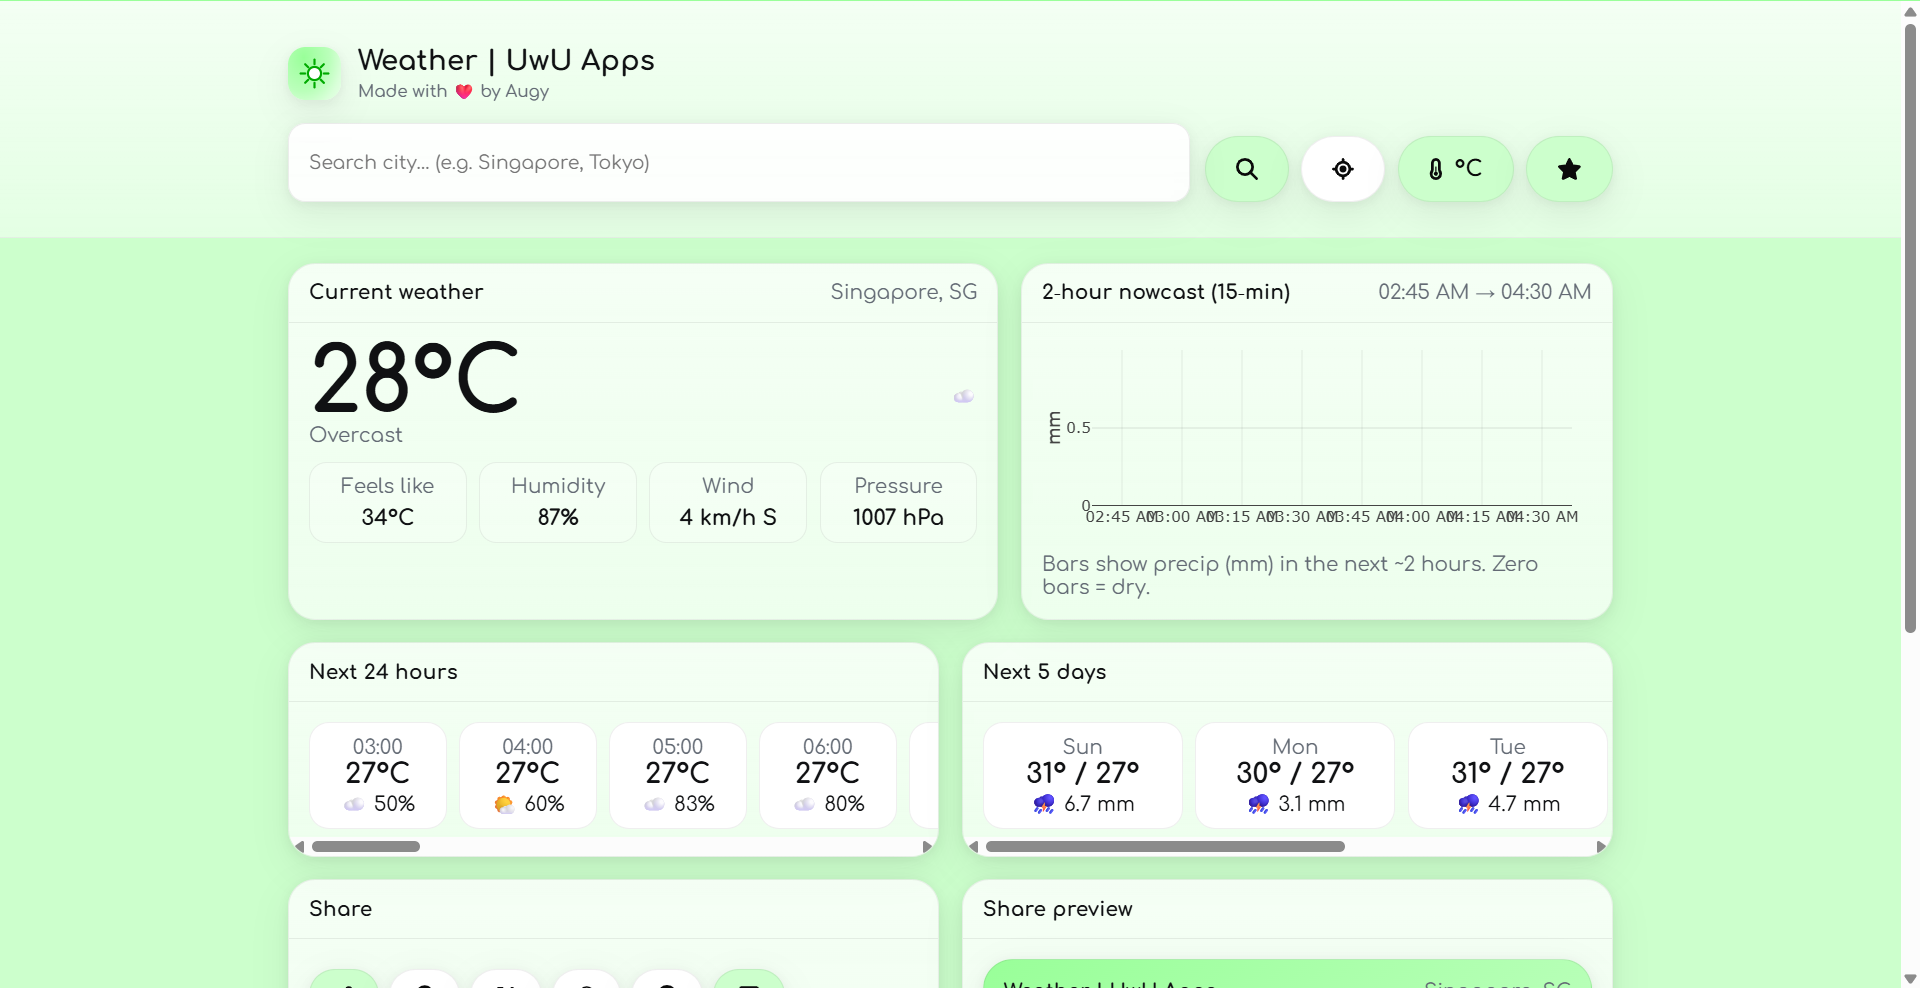
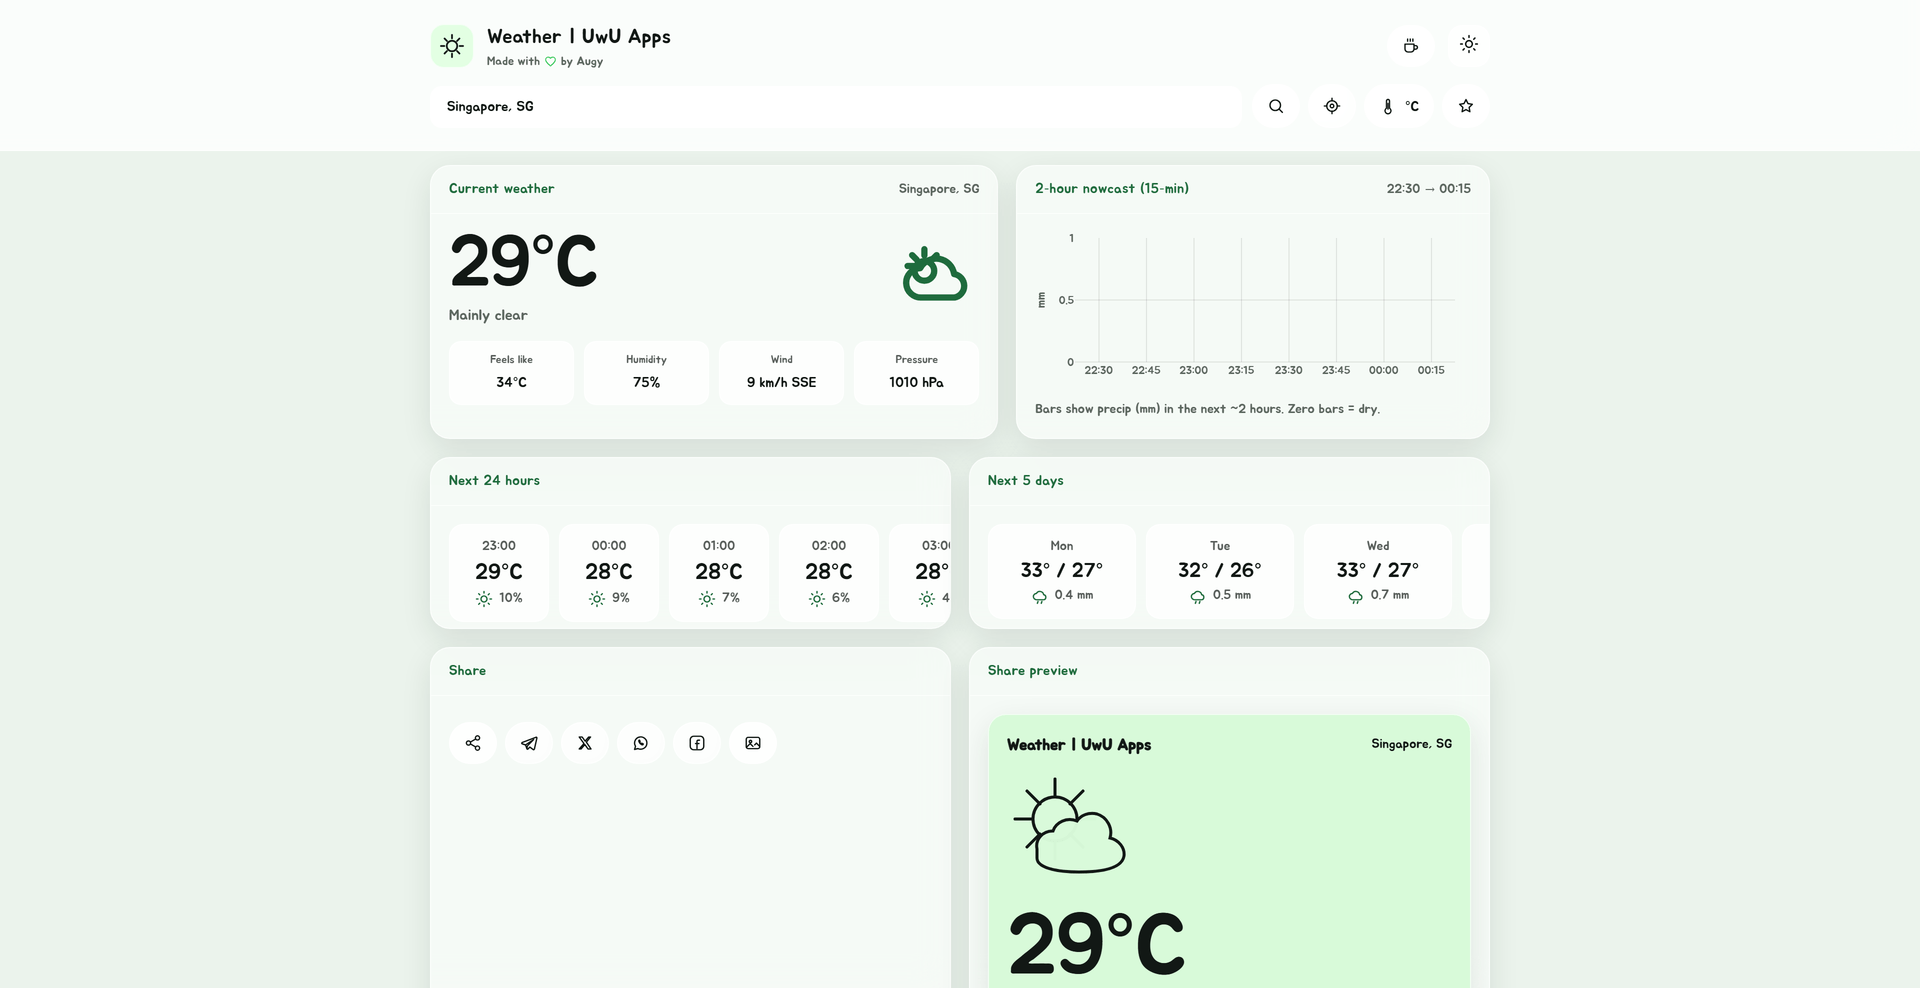
update: replace screenshots with updated versions for improved visuals

diff --git a/main-site/sw.js b/main-site/sw.js
@@ -1,4 +1,4 @@
-const CACHE = "weather-v3";
+const CACHE = "weather-v4";
 
 const ASSETS = [
   "/",
